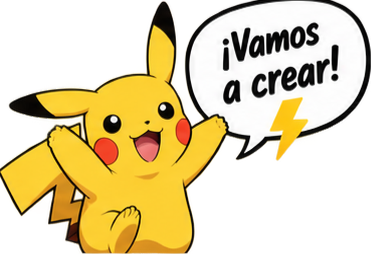
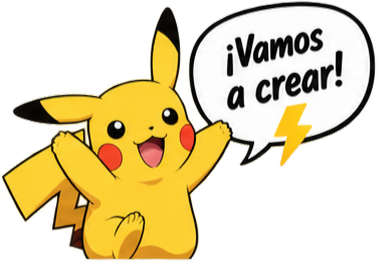
Agrandar avatares de grupo en escritorio y corregir el recorte de Pikachu
En escritorio los avatares de cada tarjeta de grupo (84px) se veían
pequeños comparados con Goku (126px, junto a la nota "Antes de
exponer"). Se igualan a 126px en escritorio; móvil queda igual
(104px). También se reemplaza pikachu-vamos-a-crear.png por la versión
sin recorte que mandó el usuario (la anterior le cortaba una mano por
error).

diff --git a/hw/canva.html b/hw/canva.html
@@ -138,7 +138,7 @@
   #picker, #reglas, #estructura{position:relative;}
 
   .t7-group-avatar{
-    width:84px; height:84px; object-fit:contain; flex:none;
+    width:126px; height:126px; object-fit:contain; flex:none;
     filter:drop-shadow(2px 2px 0 var(--ink));
   }
   @media (max-width:640px){
